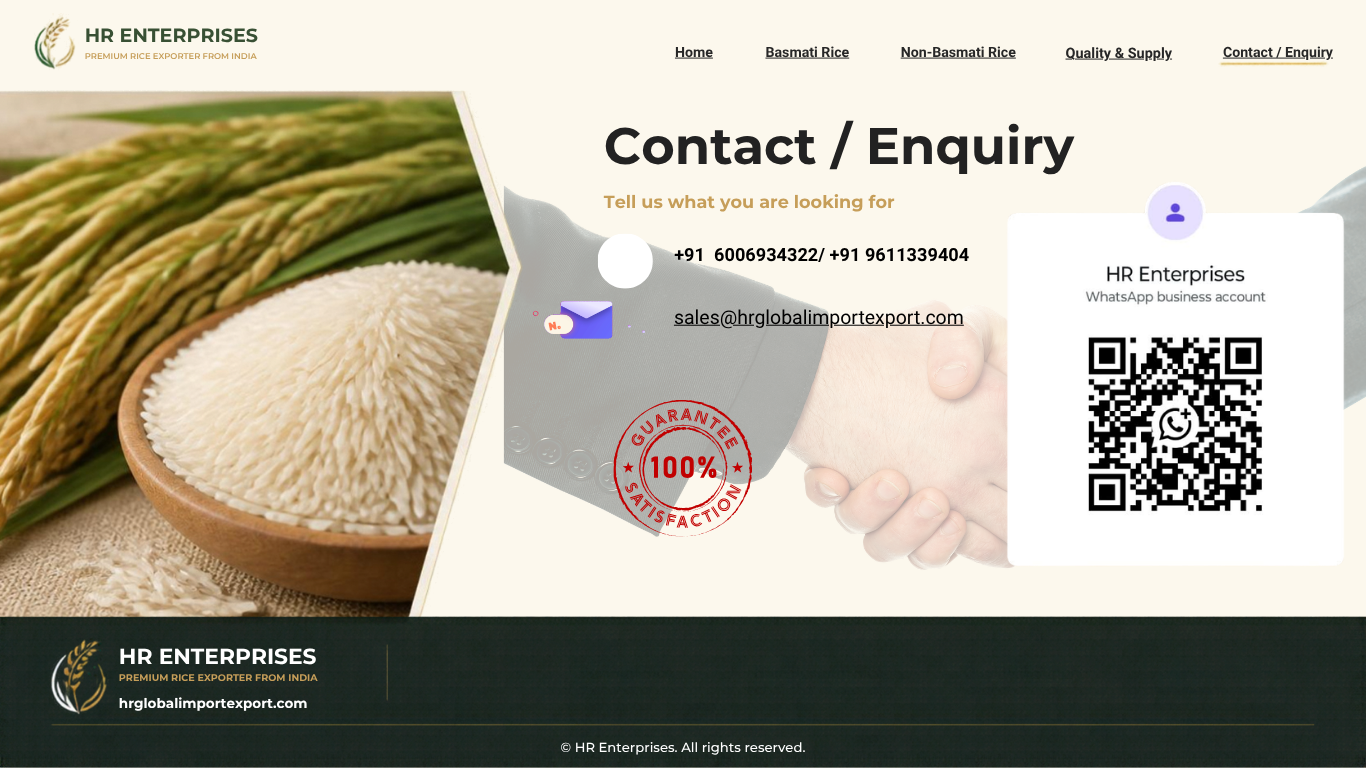
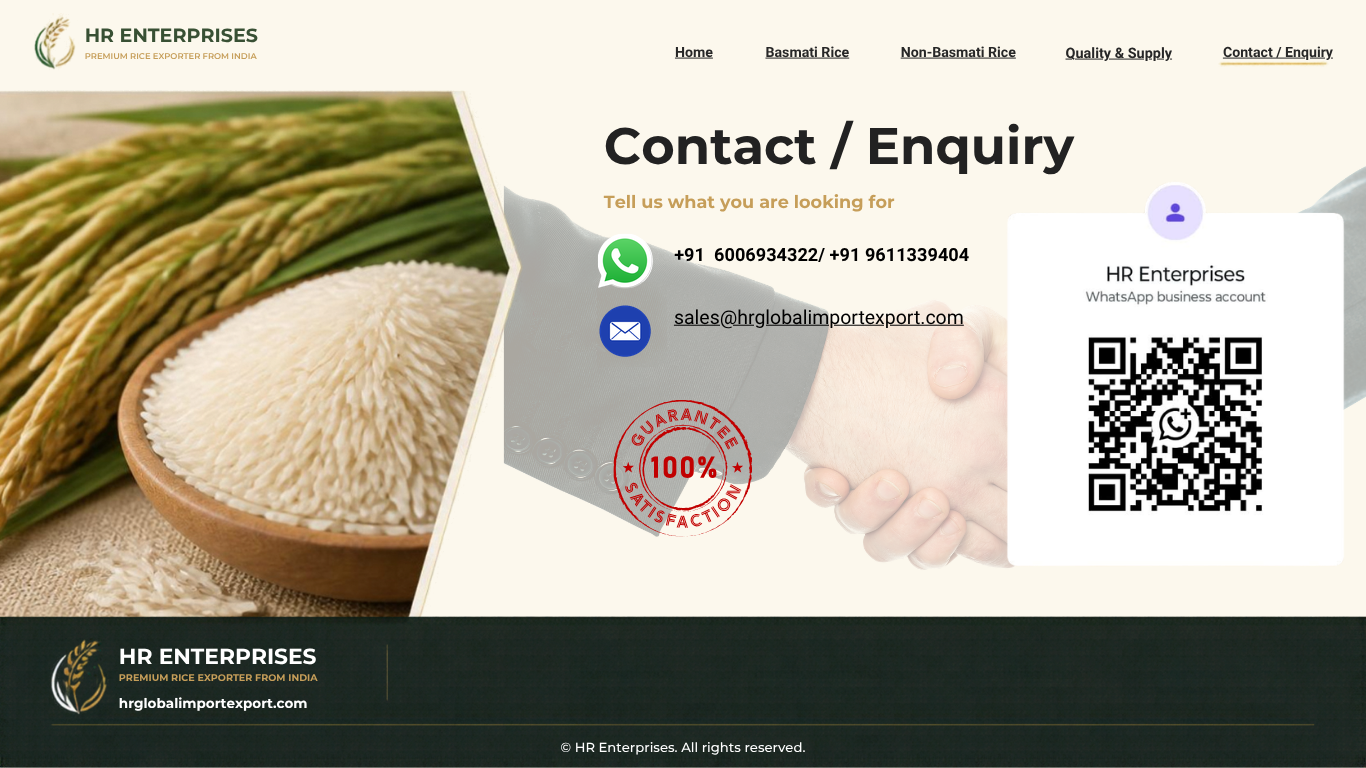
Update brochure page 5 with official WhatsApp and Mail symbols, add secondary contact number

Changed region(s): [[0.3997, 0.3125, 0.4919, 0.4688]]

diff --git a/index.html b/index.html
@@ -1196,9 +1196,9 @@
           Delivering premium Indian agro commodities and precision ramp equipment worldwide.
         </p>
         <div class="gw-contact-strip">
-          <span>📧 Sales: <a href="mailto:sales@hrglobalimportexport.com" onclick="openMailLink('sales@hrglobalimportexport.com', 'Inquiry - HR Enterprises', event)">sales@hrglobalimportexport.com</a></span>
+          <span>📧 <a href="mailto:sales@hrglobalimportexport.com" onclick="openMailLink('sales@hrglobalimportexport.com', 'Inquiry - HR Enterprises', event)">sales@hrglobalimportexport.com</a></span>
           <span>•</span>
-          <span><a href="mailto:hrglobalimportexport@gmail.com" onclick="openMailLink('hrglobalimportexport@gmail.com', 'Inquiry - HR Enterprises', event)">hrglobalimportexport@gmail.com</a></span>
+          <span>💬 <a href="https://wa.me/916006934322" target="_blank">+91 60069 34322</a> / <a href="https://wa.me/919611339404" target="_blank">+91 96113 39404</a></span>
           <span>•</span>
           <span>📍 Gurdaspur, Punjab, India</span>
         </div>
@@ -1378,7 +1378,7 @@
         <!-- Page 5 -->
         <div class="canva-page-frame reveal-on-scroll" id="canva-p5">
           <span class="canva-page-indicator">Page 5 of 5</span>
-          <img src="images/img-canva-5.png" alt="HR Enterprises Rice Export Brochure Page 5" loading="lazy">
+          <img src="images/img-canva-5.png?v=3" alt="HR Enterprises Rice Export Brochure Page 5" loading="lazy">
         </div>
       </div>
 
@@ -1843,6 +1843,7 @@
           <strong style="color:#ffffff; font-size:16px;">HR ENTERPRISES (HR Global Import Export)</strong>
           <p style="margin-top:4px; font-size:12px;">Garfoor Bagh, Tibri Road, Gurdaspur, Punjab - 143531, India</p>
           <p style="font-size:12px;">MSME, Startup India &amp; GST Registered Enterprise</p>
+          <p style="font-size:12px; margin-top:2px;">💬 WhatsApp: <a href="https://wa.me/916006934322" target="_blank" style="color:#22c55e; text-decoration:none;">+91 60069 34322</a> / <a href="https://wa.me/919611339404" target="_blank" style="color:#22c55e; text-decoration:none;">+91 96113 39404</a></p>
         </div>
         <div class="footer-links">
           <a onclick="openTab('gateway')" style="cursor:pointer;">Corporate Home</a>
